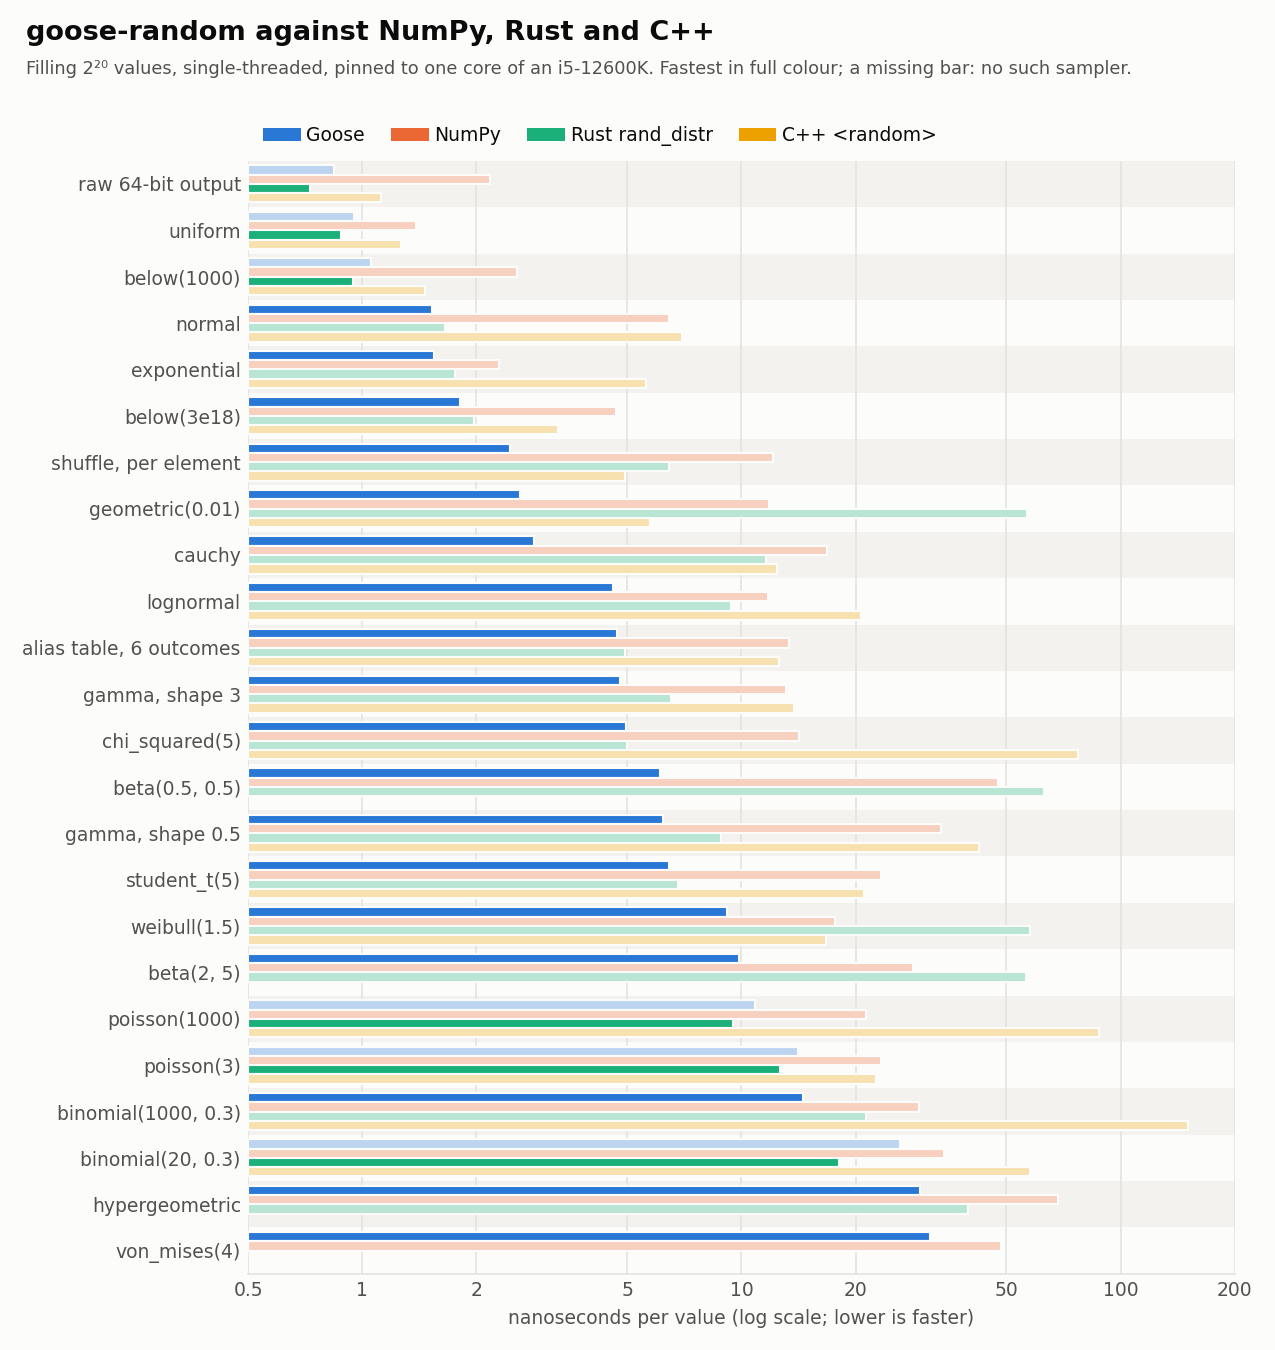
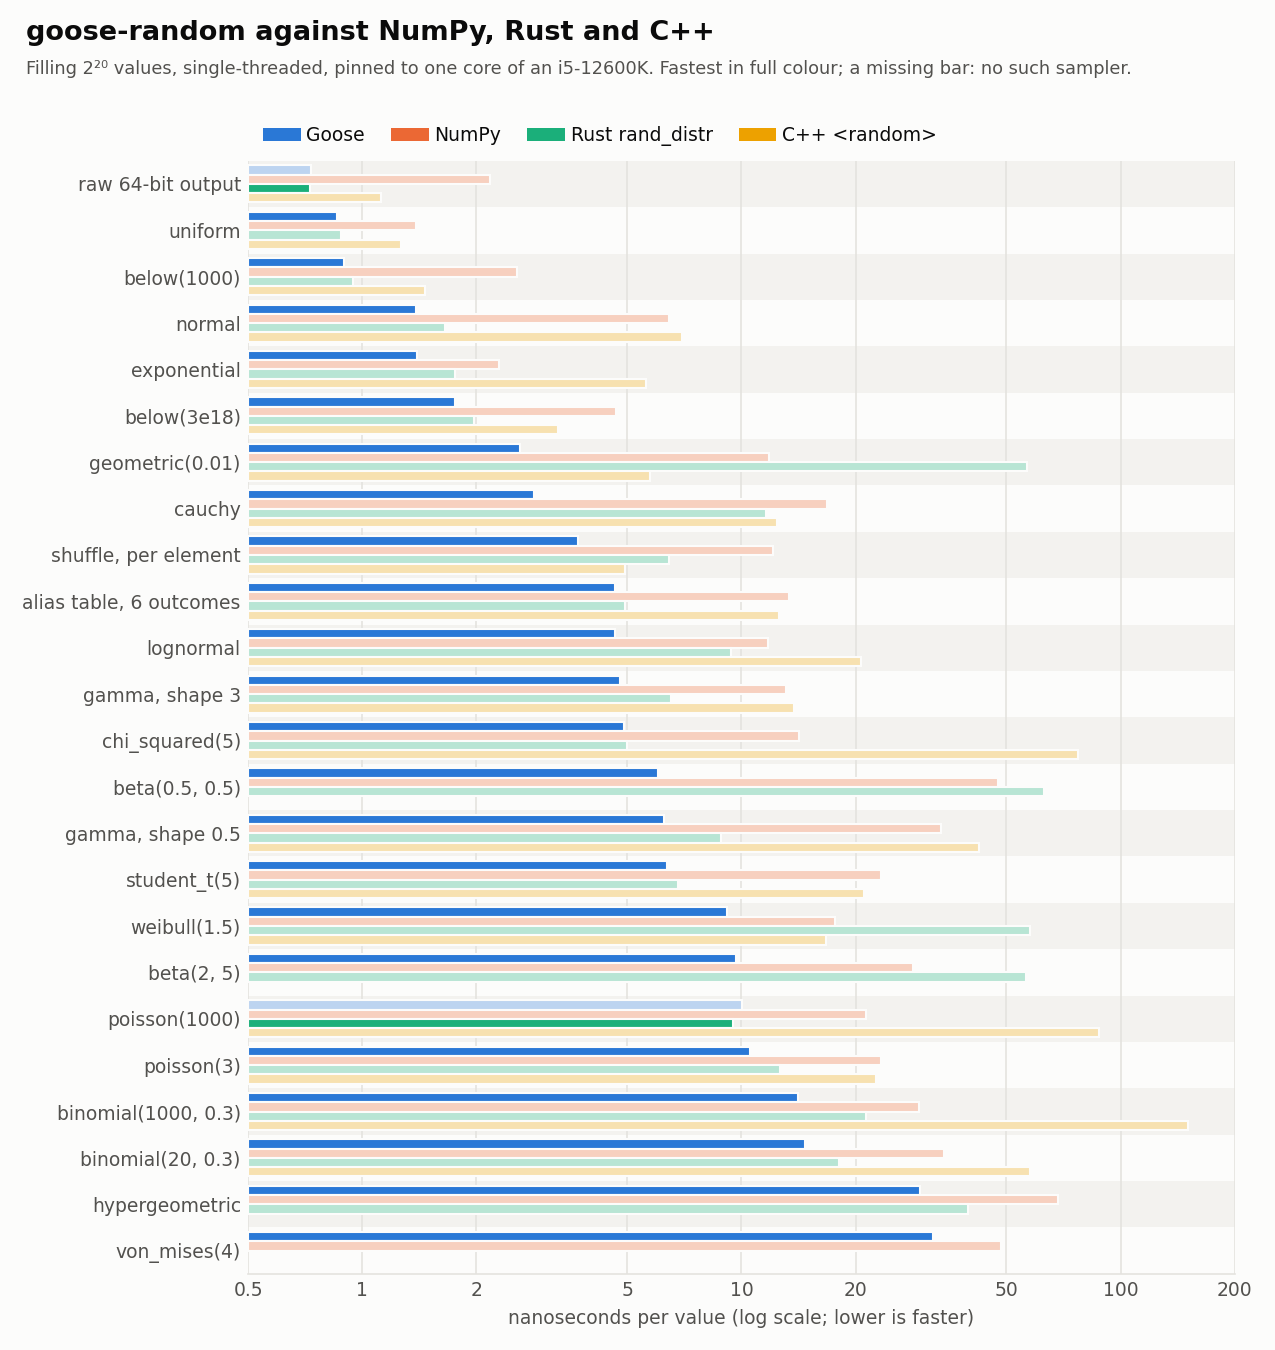
Close most remaining gaps to rand_distr
- below_u64 is inline, with Lemire's rare rejection step out of line:
  below(1000) 1.06 -> 0.90 ns (Rust 0.95).
- poisson and binomial split into an inline setup and out-of-line
  sampling loops, so a loop with fixed parameters hoists the exp, log
  and sqrt as a distribution object would. The inversion recurrences
  multiply by a table of 1/k (RECIP, generated with the other tables)
  instead of dividing. poisson(3) 14.1 -> 10.5 ns (Rust 12.7),
  binomial(20, 0.3) 26.0 -> 14.7 ns (Rust 18.1).
- PTRS merges three logs into one in its slow path, as BTRS does, and
  PTRS and BTRS take floor by truncation where the value is known to
  be nonnegative: poisson(1000) 10.8 -> 10.0 ns (Rust 9.5).
- The fill_ functions and shuffle copy the generator into a local, so
  its state stays in registers rather than being loaded and stored
  through the reference on every draw: raw output 0.84 -> 0.73 ns,
  uniform 0.95 -> 0.86, normal 1.53 -> 1.38, exponential 1.55 -> 1.39.
- bench.goose times the per-call cases as plain loops over a local
  generator, as a caller would write them, instead of through helpers
  taking it by reference.

The README's tables, plot and notes are updated, with a short section
on writing fast loops.

diff --git a/tools/gen_tables.py b/tools/gen_tables.py
@@ -99,6 +99,11 @@ def main():
     print('// log(k!) for k < 128.')
     emit('LOG_FACT', 'f64', [dbl(mp.log(mp.factorial(k))) for k in range(128)], 4)
 
+    # 1 / k, for the inversion samplers' recurrences (k = 0 is unused).
+    print('// 1 / k for k < 128, the term of the Poisson and binomial recurrences;')
+    print('// RECIP[0] is unused.')
+    emit('RECIP', 'f64', ['0.0'] + [dbl(mp.mpf(1) / k) for k in range(1, 128)], 4)
+
     # Stirling's correction log(k!) - [(k + 1/2) log(k + 1) - (k + 1) + log(2 pi)/2],
     # which BTRS (Hormann 1993) uses for k < 10.
     fc = []

diff --git a/README.md b/README.md
@@ -150,53 +150,67 @@ value). Each stream starts 2^128 outputs after the last, so they never overlap.
 | Pinning | Every run on logical CPU 4, a performance core (`bench/run_pinned.ps1`) |
 
 Each case fills an array of 2^20 values. The time is the best of at least five fills and 0.2 s,
-in nanoseconds per value, single-threaded. `tools/plot_bench.py` draws the plot from the CSVs. The fastest time in each row and any within 3% of it
-are in bold.
+in nanoseconds per value, single-threaded. The fastest time in each row and any within 3% of it
+are in bold. `tools/plot_bench.py` draws the plot from the CSVs.
 
 ![goose-random against NumPy, Rust and C++](docs/benchmark.png)
 
 | Case | Goose | NumPy | Rust | Rust, native | C++ |
 |---|---|---|---|---|---|
-| raw 64-bit output¹ | 0.84 | 2.17 | **0.73** | **0.74** | 1.12 |
-| `uniform` | 0.95 | 1.39 | **0.88** | **0.89** | 1.27 |
-| `normal` | **1.53** | 6.43 | 1.65 | **1.57** | 6.95 |
-| `exponential` | **1.55** | 2.30 | 1.75 | 1.81 | 5.61 |
-| `below(g, 1000)` | 1.06 | 2.56 | 0.95 | **0.89** | 1.47 |
-| `below(g, 3e18)` | **1.81** | 4.66 | 1.97 | **1.83** | 3.27 |
-| `uniform_dense` | **7.04** | — | — | — | — |
-| `gamma`, shape 0.5 | **6.19** | 33.7 | 8.81 | 7.91 | 42.3 |
-| `gamma`, shape 3 | 4.79 | 13.1 | 6.54 | **4.55** | 13.8 |
-| `beta(2, 5)` | **9.84** | 28.4 | 56.2 | 52.2 | — |
-| `beta(0.5, 0.5)` | **6.11** | 47.6 | 62.7 | 55.0 | — |
-| `chi_squared(5)` | 4.97 | 14.2 | 5.00 | **4.78** | 77.0 |
-| `student_t(5)` | **6.46** | 23.3 | 6.82 | **6.34** | 21.0 |
-| `lognormal` | **4.59** | 11.8 | 9.38 | 8.88 | 20.6 |
-| `cauchy` | **2.84** | 16.8 | 11.6 | 10.8 | 12.4 |
+| raw 64-bit output¹ | **0.73** | 2.17 | **0.73** | **0.74** | 1.12 |
+| `uniform` | **0.86** | 1.39 | **0.88** | 0.89 | 1.27 |
+| `normal` | **1.38** | 6.43 | 1.65 | 1.57 | 6.95 |
+| `exponential` | **1.39** | 2.30 | 1.75 | 1.81 | 5.61 |
+| `below(g, 1000)` | **0.90** | 2.56 | 0.95 | **0.89** | 1.47 |
+| `below(g, 3e18)` | **1.75** | 4.66 | 1.97 | 1.83 | 3.27 |
+| `uniform_dense` | **7.09** | — | — | — | — |
+| `gamma`, shape 0.5 | **6.24** | 33.7 | 8.81 | 7.91 | 42.3 |
+| `gamma`, shape 3 | 4.78 | 13.1 | 6.54 | **4.55** | 13.8 |
+| `beta(2, 5)` | **9.68** | 28.4 | 56.2 | 52.2 | — |
+| `beta(0.5, 0.5)` | **6.01** | 47.6 | 62.7 | 55.0 | — |
+| `chi_squared(5)` | **4.90** | 14.2 | 5.00 | **4.78** | 77.0 |
+| `student_t(5)` | **6.38** | 23.3 | 6.82 | **6.34** | 21.0 |
+| `lognormal` | **4.65** | 11.8 | 9.38 | 8.88 | 20.6 |
+| `cauchy` | **2.83** | 16.8 | 11.6 | 10.8 | 12.4 |
 | `weibull(1.5)` | **9.14** | 17.6 | 57.7 | 52.7 | 16.7 |
-| `von_mises(κ = 4)` | **31.4** | 48.3 | — | — | — |
-| `poisson(3)`² | 14.1 | 23.3 | **12.7** | **12.5** | 22.7 |
-| `poisson(1000)` | 10.9 | 21.3 | 9.47 | **8.95** | 87.6 |
-| `binomial(20, 0.3)`² | 26.1 | 34.2 | **18.1** | **17.7** | 57.5 |
-| `binomial(1000, 0.3)` | **14.6** | 29.4 | 21.4 | 19.9 | 150.2 |
-| `geometric(0.01)` | **2.60** | 11.8 | 56.6 | 51.3 | 5.74 |
+| `von_mises(κ = 4)` | **31.9** | 48.3 | — | — | — |
+| `poisson(3)` | **10.5** | 23.3 | 12.7 | 12.5 | 22.7 |
+| `poisson(1000)` | 10.0 | 21.3 | 9.47 | **8.95** | 87.6 |
+| `binomial(20, 0.3)` | **14.7** | 34.2 | 18.1 | 17.7 | 57.5 |
+| `binomial(1000, 0.3)` | **14.1** | 29.4 | 21.4 | 19.9 | 150.2 |
+| `geometric(0.01)` | **2.61** | 11.8 | 56.6 | 51.3 | 5.74 |
 | `hypergeometric(500, 500, 200)` | **29.6** | 68.5 | 39.7 | 36.5 | — |
-| alias table, 6 outcomes | 4.70 | 13.4 | 4.92 | **4.48** | 12.6 |
-| `shuffle`, per element | 2.45 | 12.1 | 6.44 | **2.34** | 4.93 |
+| alias table, 6 outcomes | 4.63 | 13.4 | 4.92 | **4.48** | 12.6 |
+| `shuffle`, per element² | 3.71 | 12.1 | 6.44 | **2.34** | 4.93 |
 
 ¹ Each library's default generator: xoshiro256++ for Goose and Rust, PCG64 for NumPy, and
-mt19937_64 for C++. Goose's xoshiro256** takes 0.75 ns and sfc64 0.98 ns. NumPy's SFC64 is
+mt19937_64 for C++. Goose's xoshiro256** takes 0.67 ns and sfc64 0.89 ns. NumPy's SFC64 is
 between 0 and 25% faster than its PCG64 in these cases.
 
-² Goose's samplers take their parameters on every call, so each draw pays for the setup that
-depends on them: for these two, an `exp`, a `log` and a `sqrt`. Rust builds a distribution object
-once (`Binomial::new(20, 0.3)`) and keeps that setup out of the timed loop.
+² A shuffle of 2^20 elements swaps at random across 8 MB, so it's bound by memory, and its time
+moves between about 1.8 and 3.7 ns from one run to the next with where the array lands.
 
 The big gaps against `rand_distr` and NumPy come from algorithms, not code generation. Goose's
 Cauchy is a ratio of two ziggurat normals rather than a `tan`, its Weibull and geometric are
 transforms of a ziggurat exponential, its beta for small parameters is Jöhnk's method, and its
 gamma for shape below 1 uses a single `pow`.
 
-`/arch:AVX2` doesn't help overall. It halves splitmix64 (0.42 ns), and most cases move by under
-5%, but the samplers that lean on the C library's `pow`, `log` and `cos` get slower: Weibull
-22 ns, von Mises 48 ns, `binomial(1000, 0.3)` 19.5 ns, `poisson(1000)` 12.6 ns, and the normal
-1.73 ns. The plain build is the one to use.
+Rust's `poisson(1000)` is the one case still ahead, by 6%. Both use Hörmann's PTRS with the same
+C library `log`, and the rest of the difference isn't accounted for yet.
+
+### Writing fast loops
+
+- Goose's samplers take their parameters on every call, where Rust builds a distribution object
+  (`Poisson::new(3.0)`) once. For `poisson` and `binomial`, the setup that depends only on the
+  parameters is inline and the sampling loop is not, so in a loop whose parameters don't change
+  the C compiler can hoist the setup out of it, as if there were an object (`poisson(3)` in such a
+  loop, with λ known only at run time, went from 20.8 to 13.3 ns).
+- Keep the generator in a local `var` of the function with the hot loop. A generator reached
+  through a reference (a `G&` parameter) stays in memory, where the compiler loads and stores its
+  state on every draw: about 0.1–0.3 ns more per value, and more variable. The `fill_` functions
+  and `shuffle` copy the generator into a local and back for this reason.
+
+`/arch:AVX2` doesn't help overall. It halves splitmix64 (0.85 to 0.41 ns), and most cases
+move by under 5%, but the samplers that lean on the C library's `pow`, `log` and `cos` get slower:
+Weibull 22 ns, von Mises 48 ns, `binomial(1000, 0.3)` 19.8 ns and `poisson(1000)`
+12.7 ns. The plain build is the one to use.
